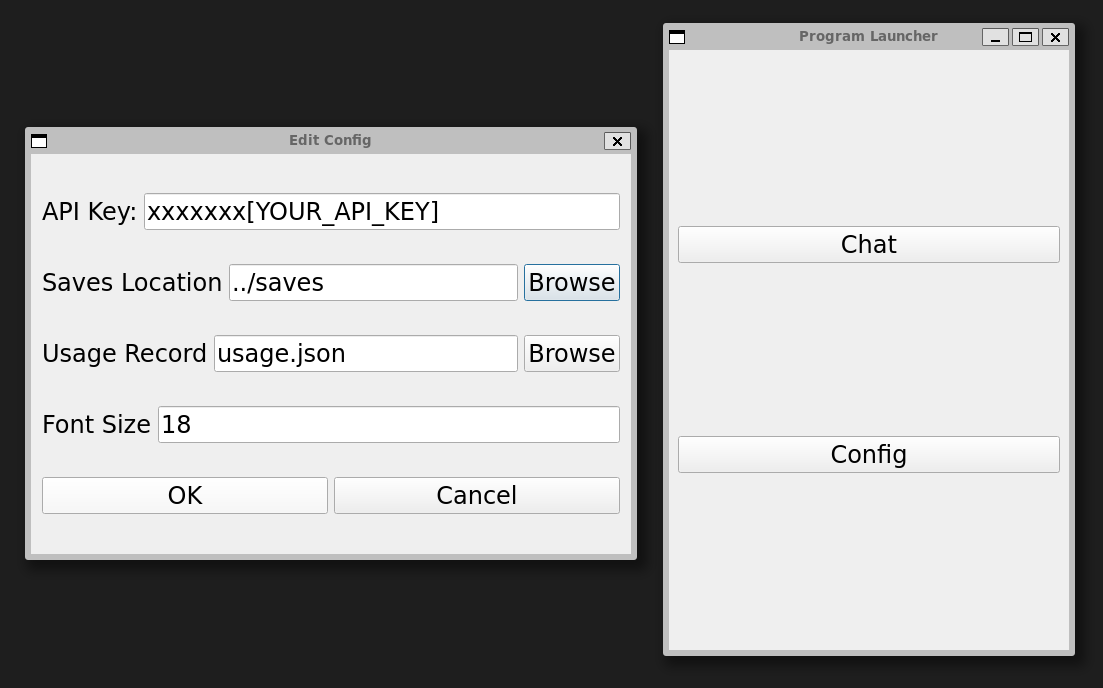
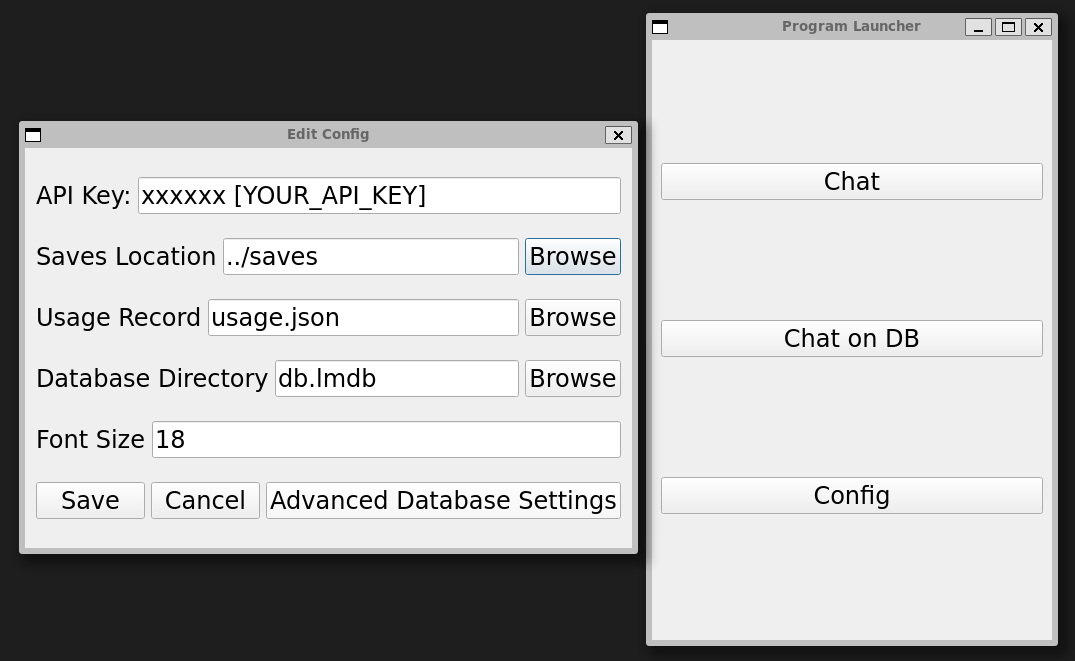
readme

diff --git a/README.md b/README.md
@@ -21,7 +21,12 @@ python src/main.py
 ### Available programs
 |Name|Filename|Fucntion|
 |--|--|--|
-|Chat|src/stream_chat.py| Text conversation|
+|Chat|src/app/stream_chat.py| Text conversation|
+|Chat On DB|src/app/db_chat.py| Text conversation according to background knowledge|
 
-### Chat
-![](demo/stream_chat.png)
+### Chat on DB
+![](demo/db_chat.png)
+
+Use `Process` to load documents to `LMDB`.
+
+Click filenames in the right list to set it as background knowledge.
